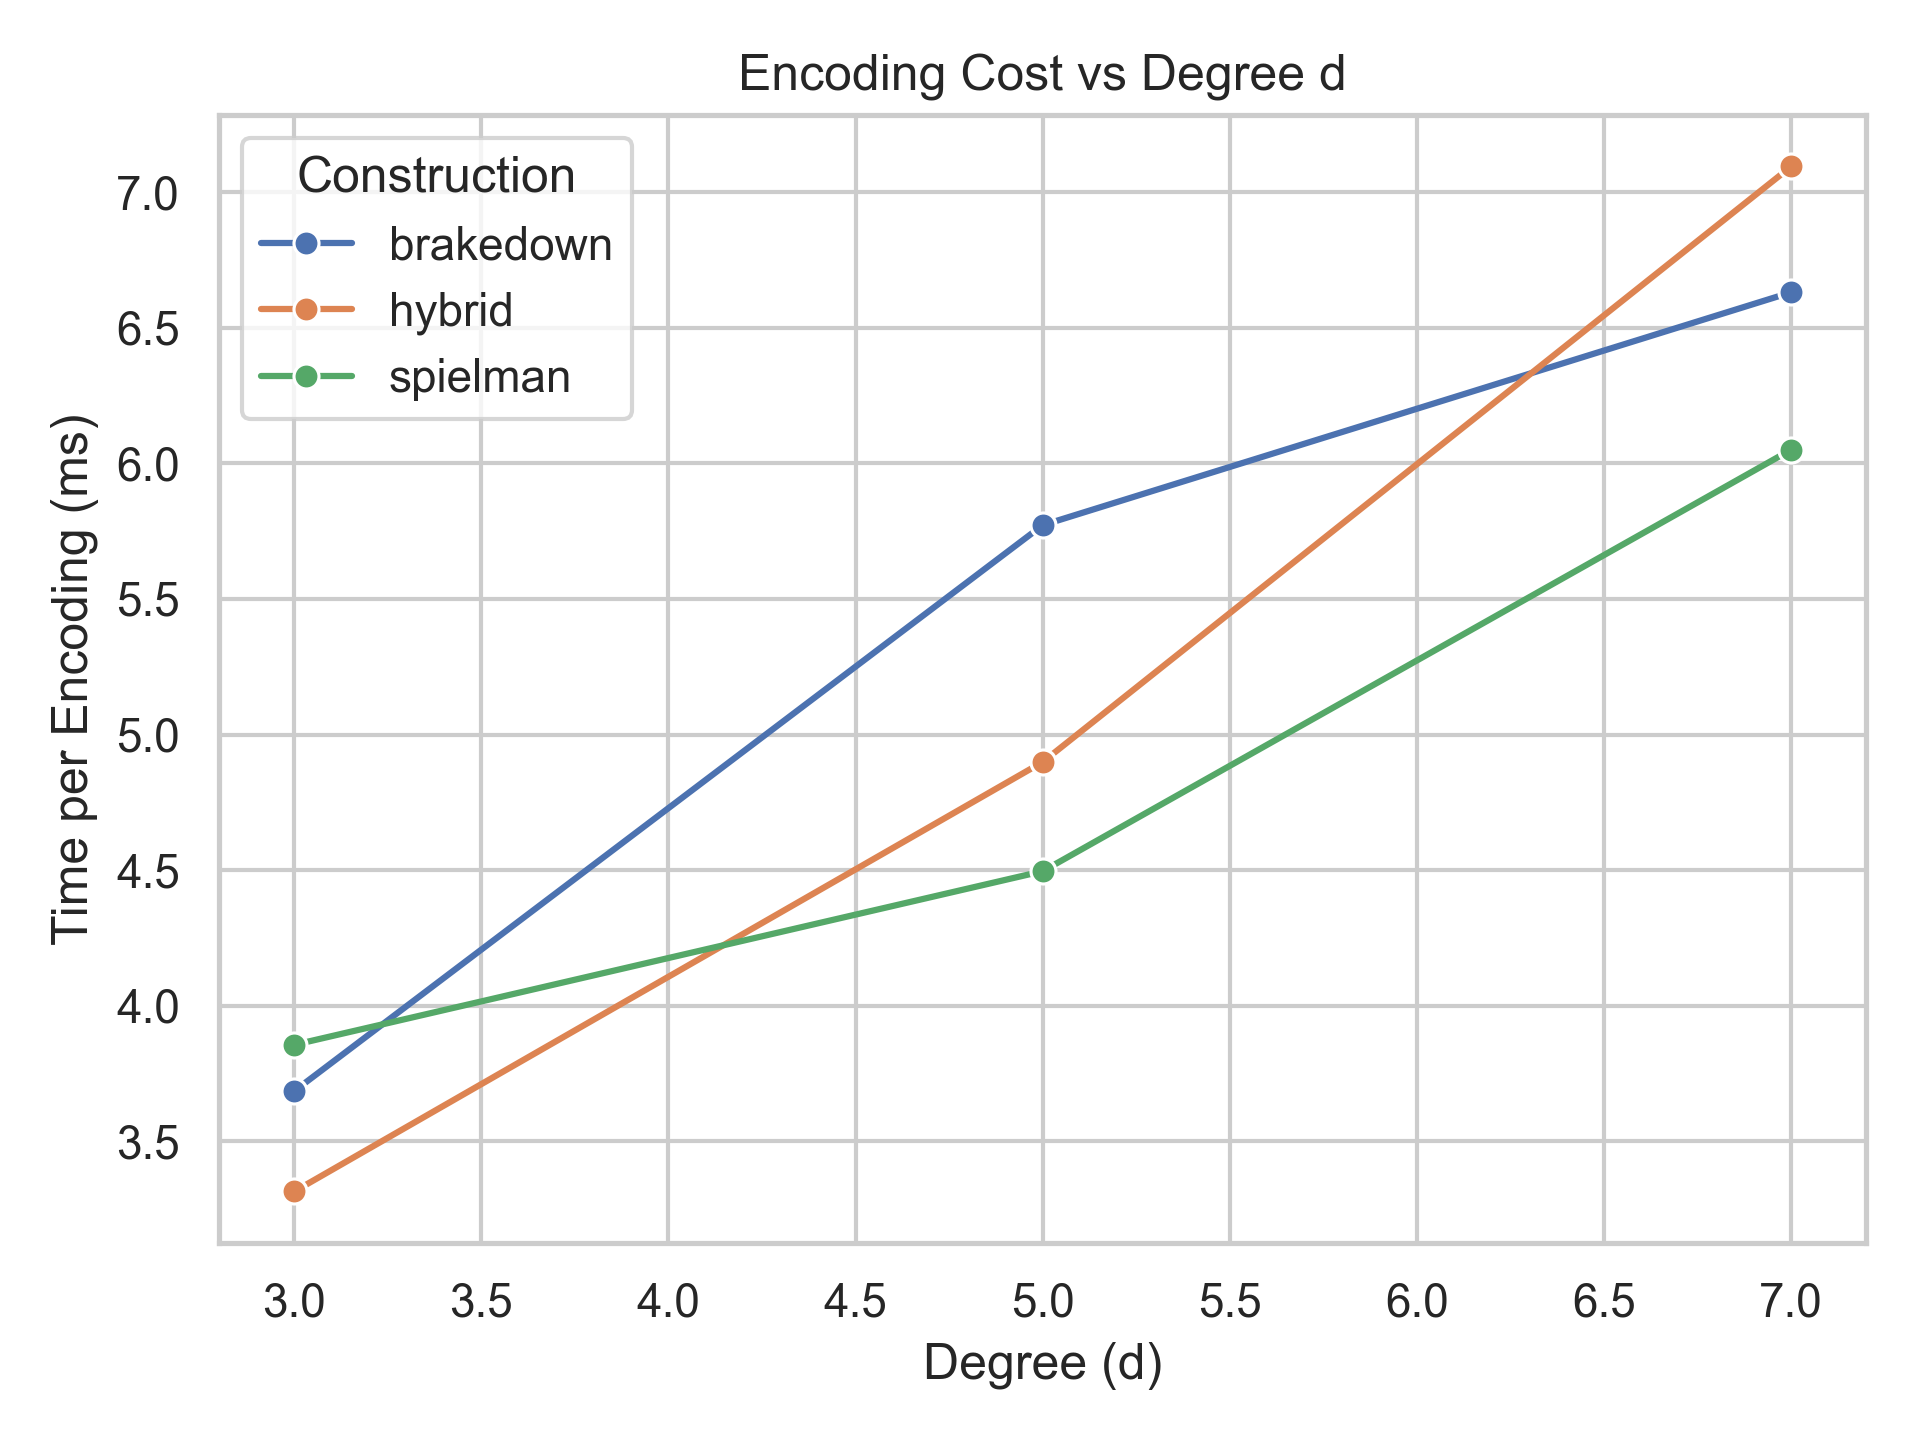
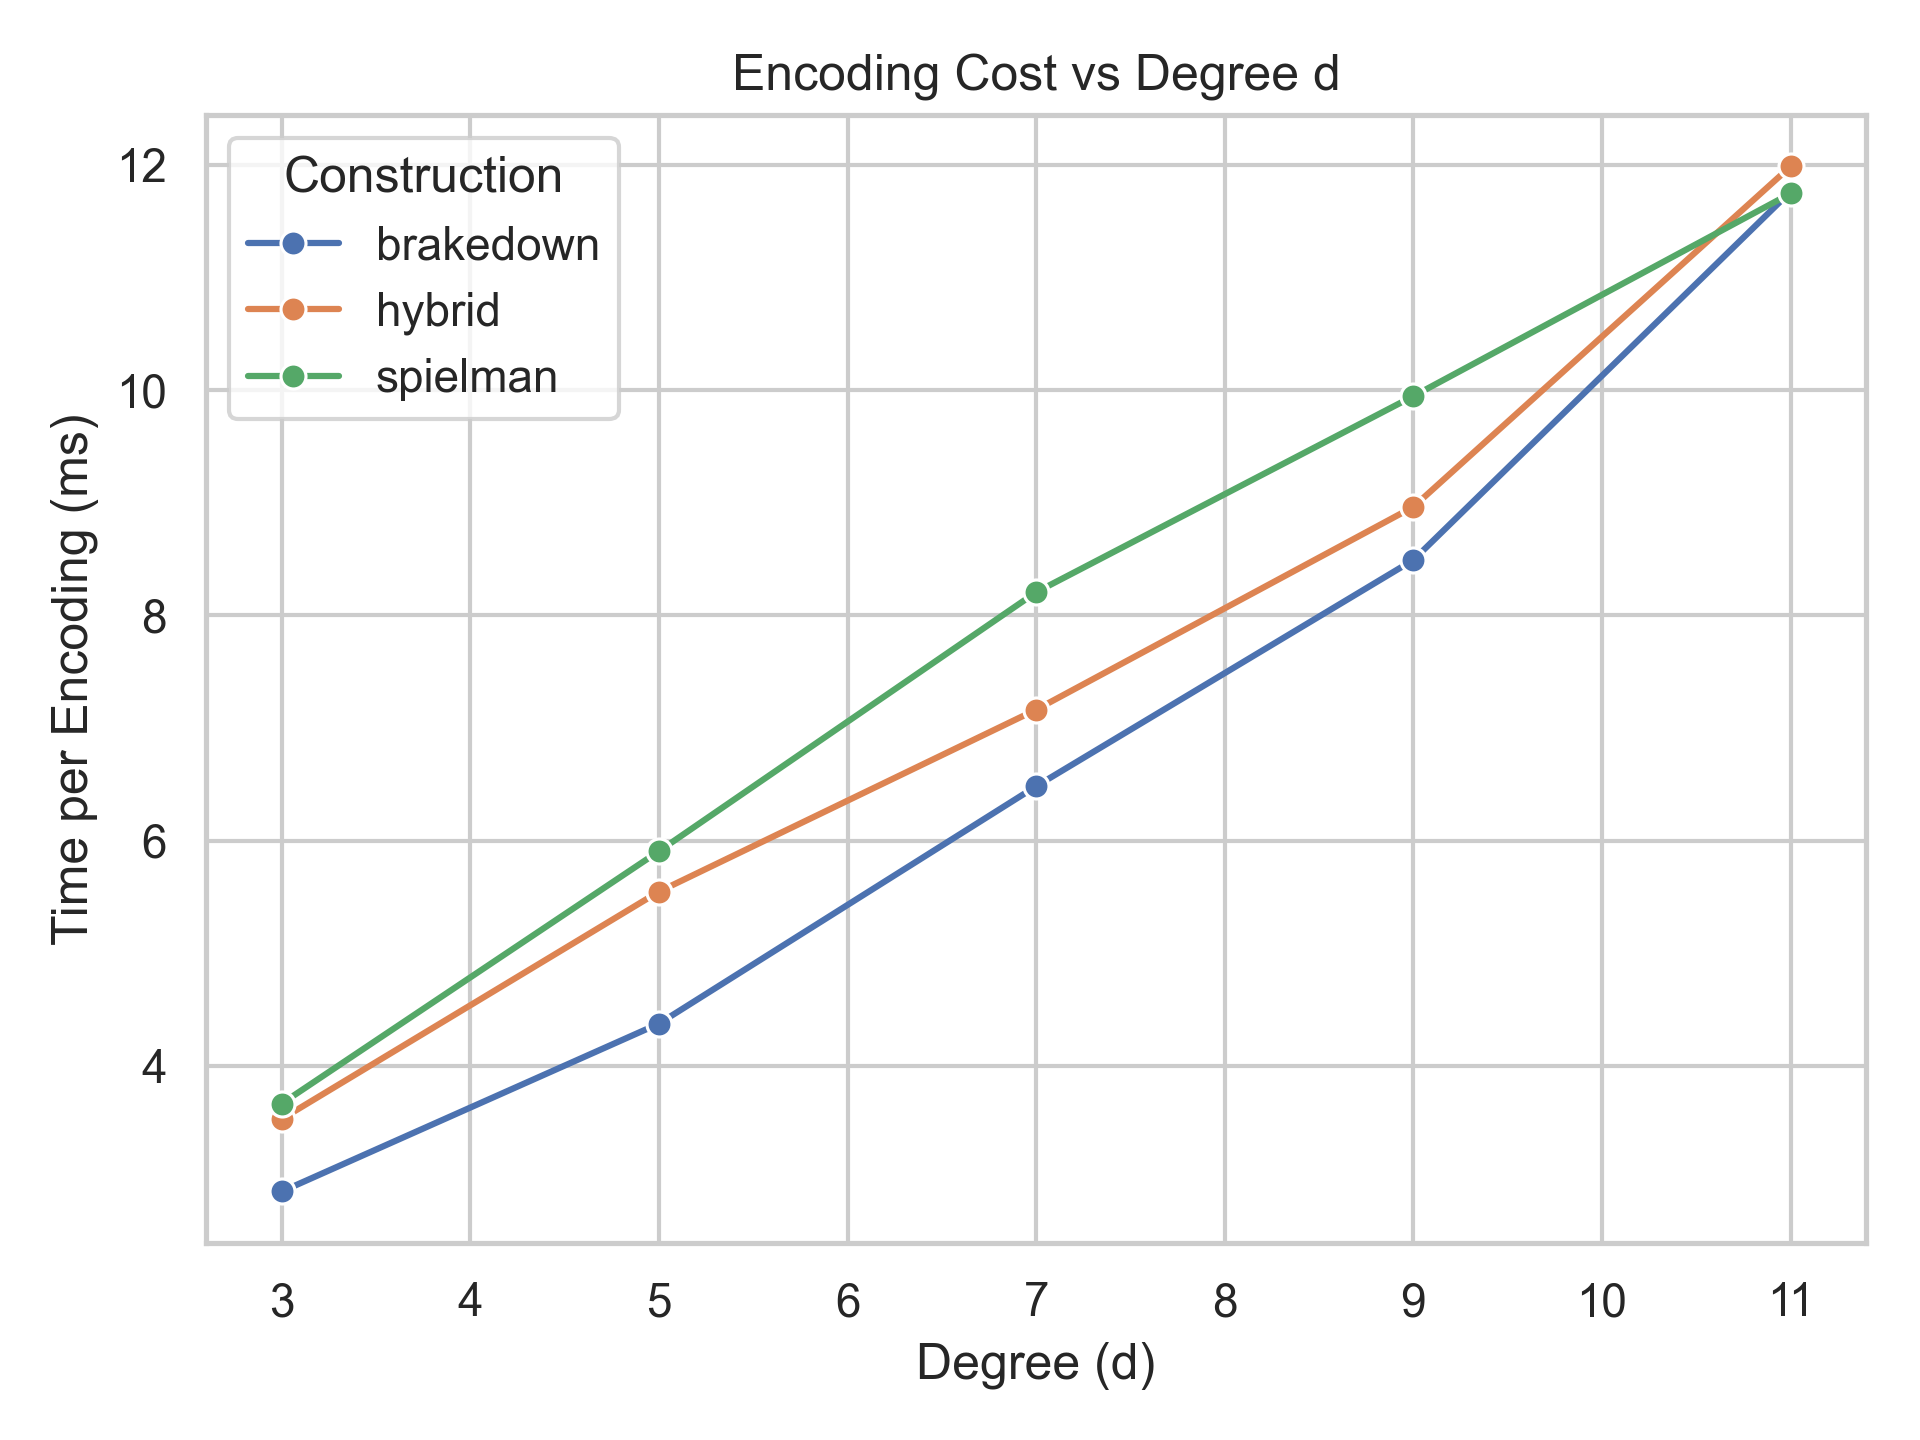
recursion baby

diff --git a/src/encoder.rs b/src/encoder.rs
@@ -12,6 +12,8 @@ pub fn apply_matrix(x: &[F], m: &SparseMatrix) -> Vec<F> {
     m.apply(x)
 }
 
+
+
 pub fn encode_recursive(x: Vec<F>, layers: &[Layer]) -> Vec<F> {
     if layers.is_empty() {
         return x;
@@ -19,12 +21,10 @@ pub fn encode_recursive(x: Vec<F>, layers: &[Layer]) -> Vec<F> {
 
     let first = &layers[0];
 
-    // x -> A
+    // Apply A then B FIRST
     let y = first.A.apply(&x);
+    let z = first.B.apply(&y);
 
-    // recursive
-    let z = encode_recursive(y, &layers[1..]);
-
-    // -> B
-    first.B.apply(&z)
+    // Then recurse
+    encode_recursive(z, &layers[1..])
 }
